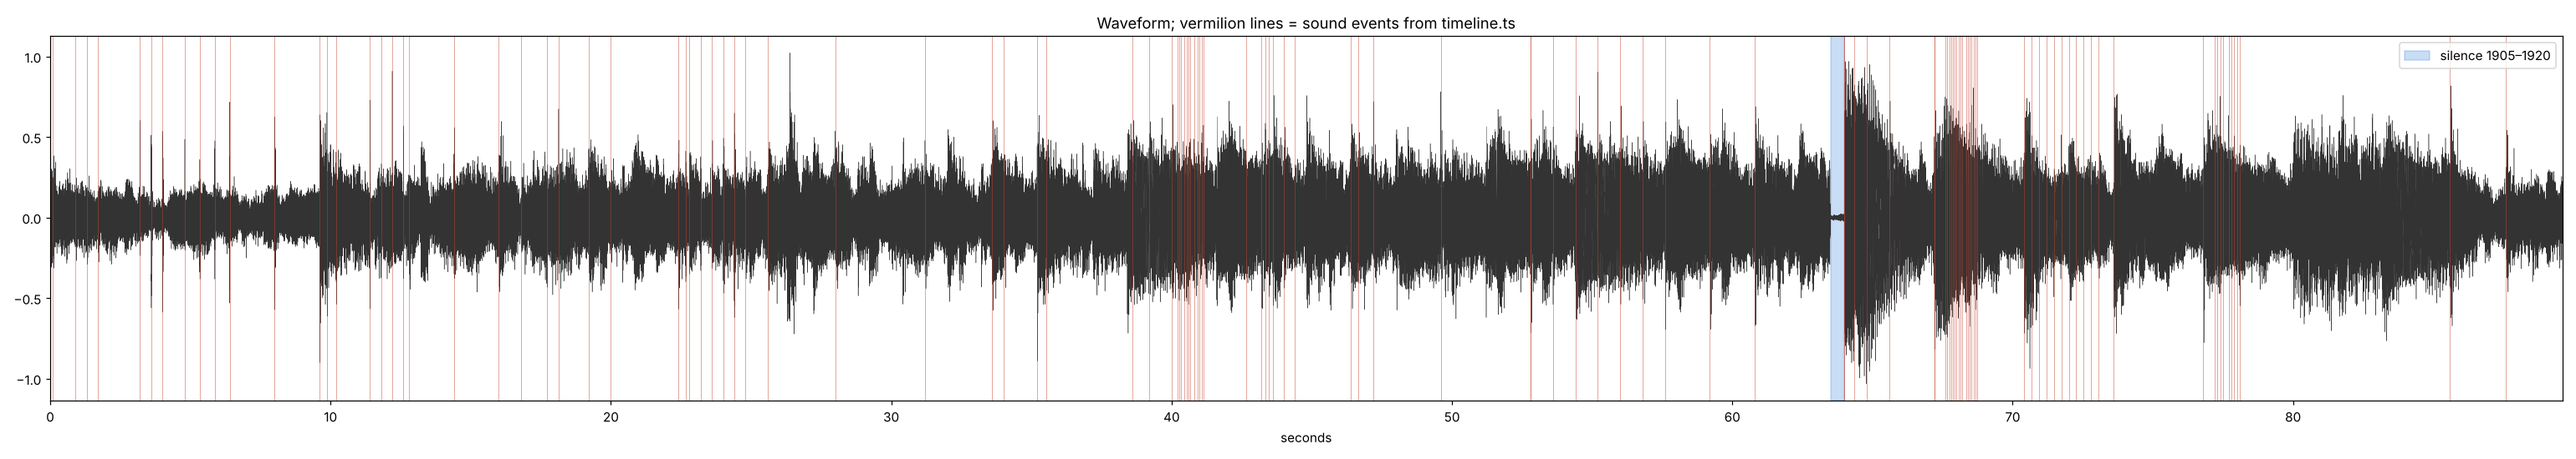
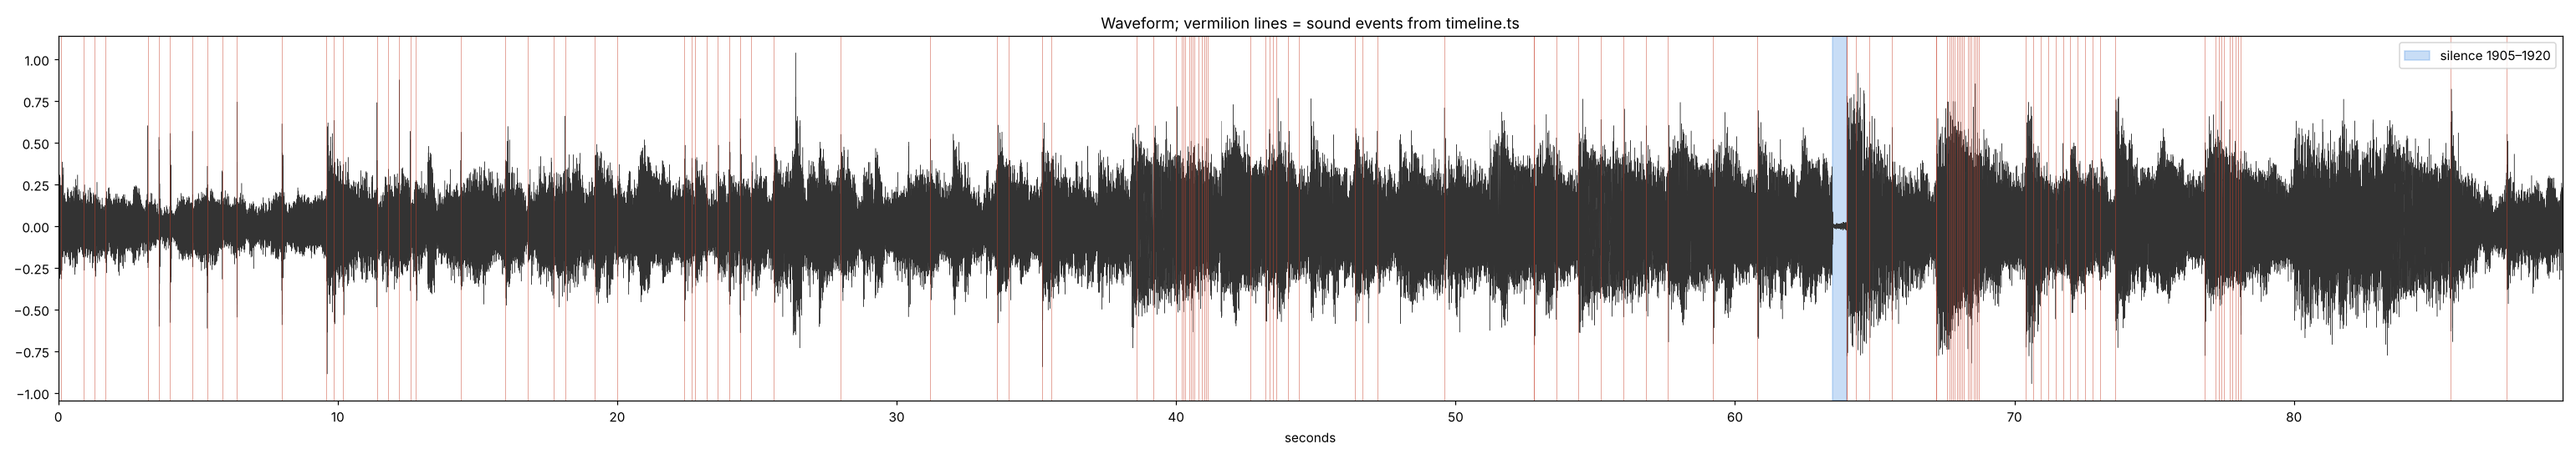
Round-3 review package with the twist audio fix
Claude-Session: https://claude.ai/code/session_016P1WyaR3q1EW4iUJTdTejV

diff --git a/review/round_3/qa.md b/review/round_3/qa.md
@@ -5,8 +5,8 @@
 | 时长 | PASS | 89.600 s | 89.6 s ±1 帧 |
 | 编码 | PASS | h264 / aac | H.264 + AAC |
 | 响度 | PASS | -14.1 LUFS | −14 ±1 LUFS（成片） |
-| 真峰值 | PASS | -1.6 dBTP | ≤ −1 dBTP |
-| 静默 1905–1920 | PASS | -41.9 dBFS（前 1.4 秒 -15.0） | 只剩底噪：≤ −32 dBFS，且比前段低 ≥ 12 dB |
+| 真峰值 | PASS | -1.5 dBTP | ≤ −1 dBTP |
+| 静默 1905–1920 | PASS | -41.8 dBFS（前 1.4 秒 -14.9） | 只剩底噪：≤ −32 dBFS，且比前段低 ≥ 12 dB |
 | 循环接缝 | PASS | 首尾帧平均差 1.03 / 255（含逐帧胶片颗粒） | < 4 |
 | 朱砂占比 | PASS | 最高 1.15%（第 2534 帧） | 单帧 ≤ 5% |
 | 静止画面 | PASS | 最长 70 帧（从第 1346 帧起） | ≤ 2.5 秒（75 帧） |

diff --git a/review/round_3/audio/alignment.md b/review/round_3/audio/alignment.md
@@ -83,7 +83,7 @@
 | paper_slide (-26 dB) | 1776 | 1776.0 | -0.0 |
 | paper_slide (-24 dB) | 1824 | 1824.0 | +0.0 |
 | projector_click (-17 dB) | 1920 | 1920.0 | +0.0 |
-| sub_hit (-22 dB) | 1920 | 1920.0 | +0.0 |
+| sub_hit (-32 dB) | 1920 | 1920.0 | +0.0 |
 | stamp (-32 dB) | 1930 | 1930.1 | +0.1 |
 | tag_drop (-28 dB) | 1944 | 1944.0 | +0.0 |
 | pen (-26 dB) | 1968 | 1968.0 | +0.0 |
